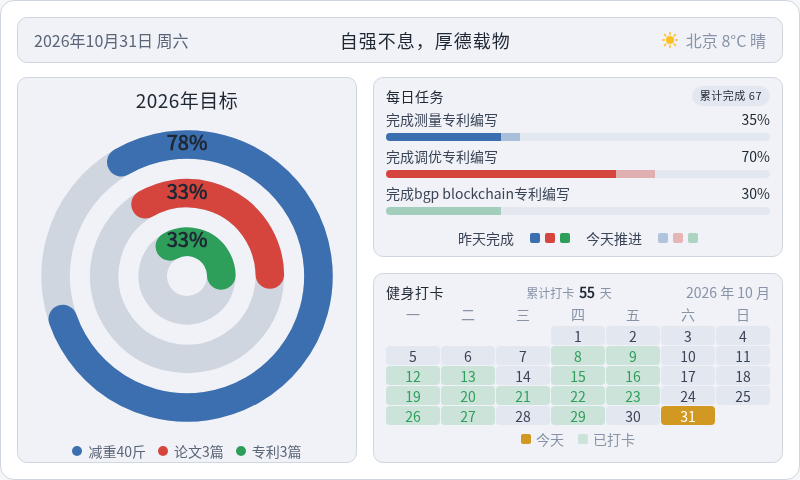
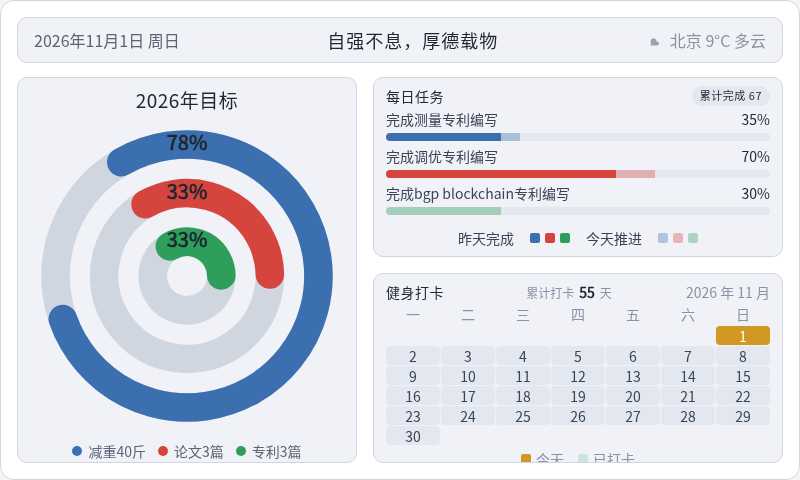
chore: 每日看板刷新 2026-11-01

diff --git a/output/dashboard/dashboard.html b/output/dashboard/dashboard.html
@@ -185,11 +185,11 @@
 <body>
   <div class="dash">
     <div class="topbar">
-      <div class="tb-date" id="tbDate">2026年10月31日 周六</div>
+      <div class="tb-date" id="tbDate">2026年11月1日 周日</div>
       <div class="tb-slogan">自强不息，厚德载物</div>
       <div class="tb-weather">
-        <svg width="16" height="16" viewBox="0 0 16 16" aria-hidden="true"><circle cx="8" cy="8" r="4" fill="#fbbf24"/><g stroke="#fbbf24" stroke-width="1.5" stroke-linecap="round"><line x1="8" y1="0.5" x2="8" y2="2.5"/><line x1="8" y1="13.5" x2="8" y2="15.5"/><line x1="0.5" y1="8" x2="2.5" y2="8"/><line x1="13.5" y1="8" x2="15.5" y2="8"/><line x1="2.5" y1="2.5" x2="3.9" y2="3.9"/><line x1="12.1" y1="12.1" x2="13.5" y2="13.5"/><line x1="13.5" y1="2.5" x2="12.1" y2="3.9"/><line x1="3.9" y1="12.1" x2="2.5" y2="13.5"/></g></svg>
-        <span>北京 8°C 晴</span>
+        <svg width="16" height="16" viewBox="0 0 16 16" aria-hidden="true"><path d="M5 11 a3 3 0 1 1 5.5 -1.5 h0.5 a2 2 0 1 1 0 4 H5 a2.5 2.5 0 0 1 0 -2.5z" fill="#9ca3af"/></svg>
+        <span>北京 9°C 多云</span>
       </div>
     </div>
     <div class="content">
@@ -245,10 +245,10 @@
             <span class="cal-stats-num" style="color:#1f2733">55</span>
             <span class="cal-stats-label">天</span>
           </span>
-          <span class="cal-date">2026 年 10 月</span>
+          <span class="cal-date">2026 年 11 月</span>
         </div>
         <div class="cal-grid wk"><span>一</span><span>二</span><span>三</span><span>四</span><span>五</span><span>六</span><span>日</span></div>
-        <div class="cal-grid"><span class="cell empty"></span><span class="cell empty"></span><span class="cell empty"></span><span class="cell" style="background:#e3e8f0;color:#3a4456">1</span><span class="cell" style="background:#e3e8f0;color:#3a4456">2</span><span class="cell" style="background:#e3e8f0;color:#3a4456">3</span><span class="cell" style="background:#e3e8f0;color:#3a4456">4</span><span class="cell" style="background:#e3e8f0;color:#3a4456">5</span><span class="cell" style="background:#e3e8f0;color:#3a4456">6</span><span class="cell" style="background:#e3e8f0;color:#3a4456">7</span><span class="cell done" style="background:rgba(46,158,91,0.18);color:#2e9e5b">8</span><span class="cell done" style="background:rgba(46,158,91,0.18);color:#2e9e5b">9</span><span class="cell" style="background:#e3e8f0;color:#3a4456">10</span><span class="cell" style="background:#e3e8f0;color:#3a4456">11</span><span class="cell done" style="background:rgba(46,158,91,0.18);color:#2e9e5b">12</span><span class="cell done" style="background:rgba(46,158,91,0.18);color:#2e9e5b">13</span><span class="cell" style="background:#e3e8f0;color:#3a4456">14</span><span class="cell done" style="background:rgba(46,158,91,0.18);color:#2e9e5b">15</span><span class="cell done" style="background:rgba(46,158,91,0.18);color:#2e9e5b">16</span><span class="cell" style="background:#e3e8f0;color:#3a4456">17</span><span class="cell" style="background:#e3e8f0;color:#3a4456">18</span><span class="cell done" style="background:rgba(46,158,91,0.18);color:#2e9e5b">19</span><span class="cell done" style="background:rgba(46,158,91,0.18);color:#2e9e5b">20</span><span class="cell done" style="background:rgba(46,158,91,0.18);color:#2e9e5b">21</span><span class="cell done" style="background:rgba(46,158,91,0.18);color:#2e9e5b">22</span><span class="cell done" style="background:rgba(46,158,91,0.18);color:#2e9e5b">23</span><span class="cell" style="background:#e3e8f0;color:#3a4456">24</span><span class="cell" style="background:#e3e8f0;color:#3a4456">25</span><span class="cell done" style="background:rgba(46,158,91,0.18);color:#2e9e5b">26</span><span class="cell done" style="background:rgba(46,158,91,0.18);color:#2e9e5b">27</span><span class="cell" style="background:#e3e8f0;color:#3a4456">28</span><span class="cell done" style="background:rgba(46,158,91,0.18);color:#2e9e5b">29</span><span class="cell" style="background:#e3e8f0;color:#3a4456">30</span><span class="cell today" style="background:#d29922;color:#ffffff">31</span></div>
+        <div class="cal-grid"><span class="cell empty"></span><span class="cell empty"></span><span class="cell empty"></span><span class="cell empty"></span><span class="cell empty"></span><span class="cell empty"></span><span class="cell today" style="background:#d29922;color:#ffffff">1</span><span class="cell" style="background:#e3e8f0;color:#3a4456">2</span><span class="cell" style="background:#e3e8f0;color:#3a4456">3</span><span class="cell" style="background:#e3e8f0;color:#3a4456">4</span><span class="cell" style="background:#e3e8f0;color:#3a4456">5</span><span class="cell" style="background:#e3e8f0;color:#3a4456">6</span><span class="cell" style="background:#e3e8f0;color:#3a4456">7</span><span class="cell" style="background:#e3e8f0;color:#3a4456">8</span><span class="cell" style="background:#e3e8f0;color:#3a4456">9</span><span class="cell" style="background:#e3e8f0;color:#3a4456">10</span><span class="cell" style="background:#e3e8f0;color:#3a4456">11</span><span class="cell" style="background:#e3e8f0;color:#3a4456">12</span><span class="cell" style="background:#e3e8f0;color:#3a4456">13</span><span class="cell" style="background:#e3e8f0;color:#3a4456">14</span><span class="cell" style="background:#e3e8f0;color:#3a4456">15</span><span class="cell" style="background:#e3e8f0;color:#3a4456">16</span><span class="cell" style="background:#e3e8f0;color:#3a4456">17</span><span class="cell" style="background:#e3e8f0;color:#3a4456">18</span><span class="cell" style="background:#e3e8f0;color:#3a4456">19</span><span class="cell" style="background:#e3e8f0;color:#3a4456">20</span><span class="cell" style="background:#e3e8f0;color:#3a4456">21</span><span class="cell" style="background:#e3e8f0;color:#3a4456">22</span><span class="cell" style="background:#e3e8f0;color:#3a4456">23</span><span class="cell" style="background:#e3e8f0;color:#3a4456">24</span><span class="cell" style="background:#e3e8f0;color:#3a4456">25</span><span class="cell" style="background:#e3e8f0;color:#3a4456">26</span><span class="cell" style="background:#e3e8f0;color:#3a4456">27</span><span class="cell" style="background:#e3e8f0;color:#3a4456">28</span><span class="cell" style="background:#e3e8f0;color:#3a4456">29</span><span class="cell" style="background:#e3e8f0;color:#3a4456">30</span></div>
         <div class="cal-legend">
           <span style="color:#8893a7"><i class="sw" style="background:#d29922"></i>今天</span>
           <span style="color:#8893a7"><i class="sw" style="background:rgba(46,158,91,0.18)"></i>已打卡</span>
